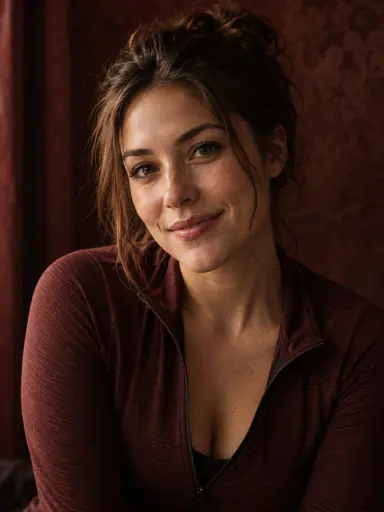
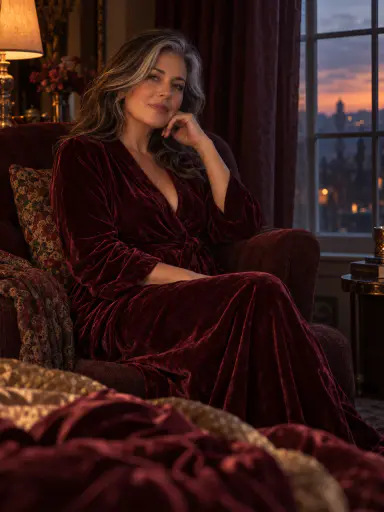
fix(styles): review pilot card sets and regenerate SP01-069 primary
Accept the 60 pack_01 Portrait And Studio cards, rewrite the SP01-069 primary brief after ChatGPT returned no image, and record the review and brief lesson in the overhaul audit.

diff --git a/docs/styles/curation-v2/overhaul/specs/pack_01__portrait-and-studio.ts b/docs/styles/curation-v2/overhaul/specs/pack_01__portrait-and-studio.ts
@@ -373,7 +373,7 @@ const spec: Spec = {
       },
       avoid: [...AVOID, 'explicit nudity'],
       briefs: [
-        'Tasteful boudoir portrait of a confident adult woman with silver-streaked hair reclining on a canopy bed draped in burgundy velvet, a silk robe off one shoulder, warm lamp light, deep shadows. No nudity, text or logo.',
+        "Tasteful boudoir-style portrait of a confident adult woman with silver-streaked hair, fully dressed in a long burgundy velvet dressing gown tied at the waist, seated sideways in a deep armchair by a tall curtained window at dusk; warm lamp light along her face and hands, deep wine-colored shadows, rumpled silk throw in the foreground. Intimate, elegant, no nudity, no text or logo.",
         'Tasteful boudoir portrait of an adult man in an open linen shirt sitting on the edge of a rumpled bed by a tall window at dusk, amber light along his shoulders, curtains in the foreground. No nudity, text or logo.',
         'Tasteful boudoir portrait of an adult woman in a black lace robe and long opera gloves standing at a candlelit vanity in a gothic bedroom, looking over her shoulder into the mirror. Warm dark tones. No nudity, text or logo.',
       ],

diff --git a/docs/styles/curation-v2/overhaul/audits/pack_01__portrait-and-studio.md b/docs/styles/curation-v2/overhaul/audits/pack_01__portrait-and-studio.md
@@ -37,6 +37,10 @@ Audited 2026-09-24 from the contact sheet of current cards (18 primaries + 3 var
 - 3 new briefs per preset with distinct, characterful adult subjects (falconer, bell-founder, ringmaster, jester booking photo, …); no subject repeated across presets.
 - New presets: SP01-088 Ring Flash Portrait, SP01-089 Painted Muslin Backdrop Portrait (category now 20).
 
-## Card review
+## Card review (2026-09-25, 60 cards, 3 per preset)
 
-Pending generation.
+Result: accepted. No model is repeated across presets, each technique reads at thumbnail size, and SP01-008 no longer shows a real person.
+
+- SP01-069 primary: first attempt blocked (stale lock from job 7d3e8ddc, `needs_review`, no asset); second attempt returned no image (job c24fbc80, likely moderation of "robe off one shoulder" / canopy bed). Brief rewritten as a fully dressed velvet dressing gown by a window; regenerated and accepted. Both locks moved to `.locks/*.reviewed.chatgpt.lock`.
+- Minor, accepted: SP01-080-02 (passport beekeeper) dropped the bees; SP01-003-01 taxidermist reads as a generic workshop.
+- Brief lesson for the cloud session: for boudoir or other sensual presets, describe fully dressed adults and let light and fabric carry the mood; ChatGPT HTTP silently refuses suggestive undress wording.
